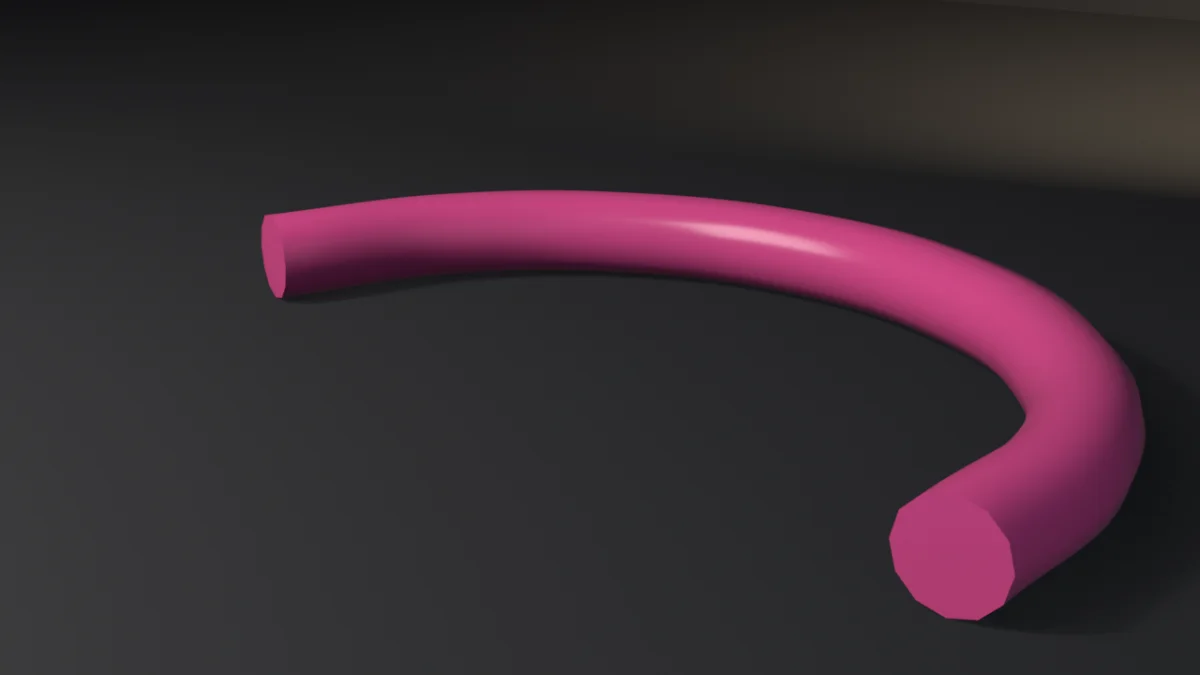
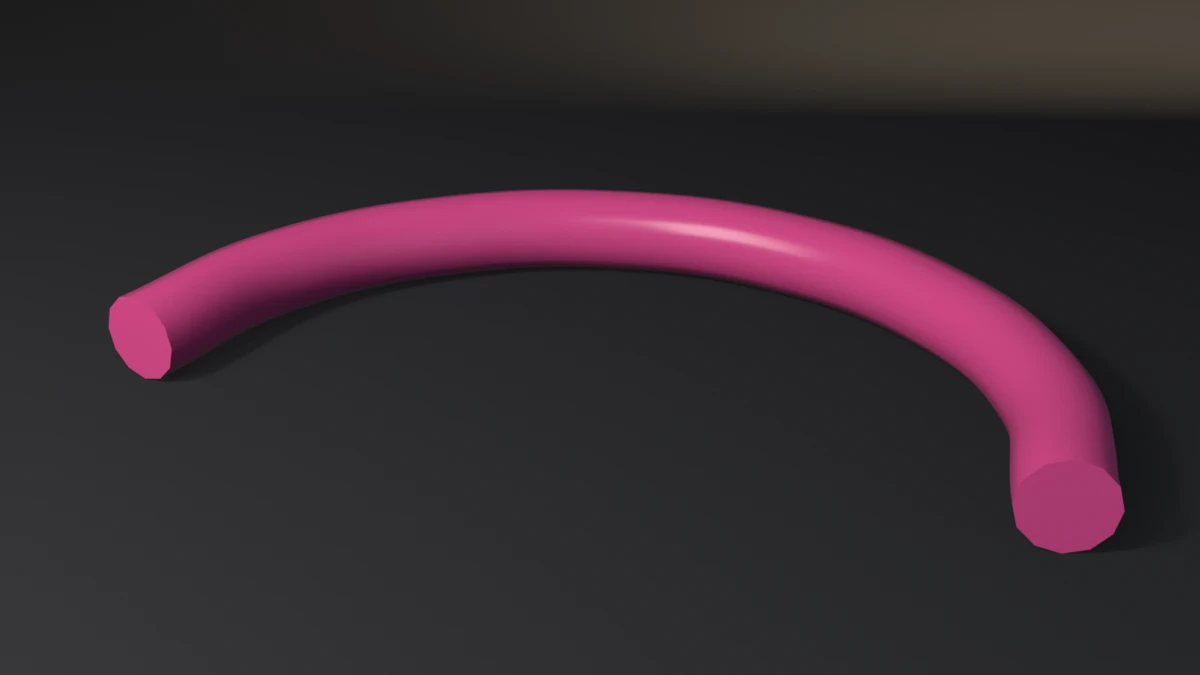
fix: curve-bevel-arc presentation, both caps facing the camera
Render path only: the camera looks along the direction both capped ends
face, so the witness (use_fill_caps) shows twice. Contract and exit codes
unchanged on 4.5.11, 5.1.2 and 5.2.1.

diff --git a/docs/gallery/curve-bevel-arc/index.html b/docs/gallery/curve-bevel-arc/index.html
@@ -16,13 +16,13 @@
   <meta property="og:image" content="https://tmhsdigital.github.io/Blender-Developer-Tools/gallery/assets/curve-bevel-arc-hero.webp" />
   <meta property="og:image:width" content="1280" />
   <meta property="og:image:height" content="720" />
-  <meta property="og:image:alt" content="A magenta beveled curve tube sweeping in an arc across a dark floor, with a capped end." />
+  <meta property="og:image:alt" content="A magenta beveled curve tube lying in a semicircle on a dark floor, both filled end caps facing the camera." />
   <meta property="og:site_name" content="Blender Developer Tools" />
   <meta name="twitter:card" content="summary_large_image" />
   <meta name="twitter:title" content="curve-bevel-arc — Examples — Blender Developer Tools" />
   <meta name="twitter:description" content="A beveled Bezier semicircle authored on bpy.types.Curve — splines.new(&#x27;BEZIER&#x27;), bezier_points, bevel_depth, use_fill_caps — so the curve renders as a solid tube without a prior mesh conversion." />
   <meta name="twitter:image" content="https://tmhsdigital.github.io/Blender-Developer-Tools/gallery/assets/curve-bevel-arc-hero.webp" />
-  <meta name="twitter:image:alt" content="A magenta beveled curve tube sweeping in an arc across a dark floor, with a capped end." />
+  <meta name="twitter:image:alt" content="A magenta beveled curve tube lying in a semicircle on a dark floor, both filled end caps facing the camera." />
   <style>
     /* fonts are deployed by the landing build (docs/fonts/) */
     @font-face { font-family: 'Barlow Condensed'; font-weight: 600; font-display: swap;
@@ -268,8 +268,8 @@
     <p>A beveled Bezier semicircle authored on bpy.types.Curve — splines.new(&#x27;BEZIER&#x27;), bezier_points, bevel_depth, use_fill_caps — so the curve renders as a solid tube without a prior mesh conversion.</p>
   </header>
   <main id="main">
-    <button class="detail-hero" id="heroZoom" type="button" aria-label="View full size: A magenta beveled curve tube sweeping in an arc across a dark floor, with a capped end.">
-      <img src="../assets/curve-bevel-arc-hero.webp" alt="A magenta beveled curve tube sweeping in an arc across a dark floor, with a capped end." width="1280" height="720" />
+    <button class="detail-hero" id="heroZoom" type="button" aria-label="View full size: A magenta beveled curve tube lying in a semicircle on a dark floor, both filled end caps facing the camera.">
+      <img src="../assets/curve-bevel-arc-hero.webp" alt="A magenta beveled curve tube lying in a semicircle on a dark floor, both filled end caps facing the camera." width="1280" height="720" />
     </button>
     <p class="zoom-hint">Rendered headless by the example itself — click to zoom.</p>
     <div class="callout"><span class="tag">witnesses</span> Curve tubes are curve datablocks: eight Bezier points, bevel_depth == 0.15, filled caps, and the evaluated mesh has deterministic topology (1044 verts, 1028 faces) resting on the floor.</div>
@@ -280,6 +280,7 @@
     <section class="detail-section md">
 <p>A runnable example that builds a beveled Bezier semicircle entirely through the curve data API — <code>splines.new(&#x27;BEZIER&#x27;)</code>, per-point <code>bezier_points</code>, <code>bevel_depth</code>, and <code>use_fill_caps</code> — so the curve renders as a solid tube without a prior mesh conversion.</p>
 <p><strong>What it witnesses:</strong> renderable curve tubes are curve datablocks, not meshes. The check asserts eight Bezier points, <code>bevel_depth == 0.15</code>, <code>use_fill_caps</code>, and that the depsgraph-evaluated mesh has the deterministic topology (1044 verts, 1028 faces for these resolution settings) with a Z span that rests on the floor (<code>[0, 2 × bevel]</code>) and an X span of <code>2 × radius + 2 × bevel</code>.</p>
+<p>Staging: both ends of the semicircle face −Y, so the still looks from −Y and shows both filled caps (<code>use_fill_caps</code>, the witness) face-on, with the arc sweeping behind them. The old angle showed one cap and the other end edge-on. The cap&#x27;s 12-sided outline is the pinned tessellation (<code>bevel_resolution</code> 4, locked by the 1044-vertex gate), not a presentation choice.</p>
 <h2>Run</h2>
 <pre><code># Cheap correctness check (no render) — the CI check:
 blender --background --python curve_bevel_arc.py --
@@ -434,7 +435,9 @@ EXPECT_FACES = <span class="n">1028</span>
     bsdf.inputs[<span class="s">&quot;Base Color&quot;</span>].default_value = (<span class="n">0.95</span>, <span class="n">0.10</span>, <span class="n">0.38</span>, <span class="n">1.0</span>)  <span class="c"># rose</span>
     bsdf.inputs[<span class="s">&quot;Roughness&quot;</span>].default_value = <span class="n">0.24</span>
     obj.data.materials.append(mat)
-    obj.rotation_euler = (<span class="n">0.0</span>, <span class="n">0.0</span>, math.radians(-<span class="n">18</span>))
+    <span class="c"># both capped ends face -Y with the arc unrotated, so the camera on -Y</span>
+    <span class="c"># sees the two caps (the witness) face-on and the arc sweeping behind</span>
+    obj.rotation_euler = (<span class="n">0.0</span>, <span class="n">0.0</span>, math.radians(-<span class="n">8</span>))
 
     floor_me = bpy.data.meshes.new(<span class="s">&quot;Floor&quot;</span>)
     bm = bmesh.new()
@@ -462,7 +465,7 @@ EXPECT_FACES = <span class="n">1028</span>
     scene.world = world
 
     aim = bpy.data.objects.new(<span class="s">&quot;Aim&quot;</span>, <span class="k">None</span>)
-    aim.location = (<span class="n">0.0</span>, <span class="n">0.35</span>, BEVEL)
+    aim.location = (<span class="n">0.0</span>, <span class="n">0.55</span>, BEVEL)
     scene.collection.objects.link(aim)
 
     <span class="k">def</span> light(name, loc, energy, size, col):
@@ -494,7 +497,7 @@ EXPECT_FACES = <span class="n">1028</span>
     cam_data = bpy.data.cameras.new(<span class="s">&quot;Cam&quot;</span>)
     cam_data.lens = <span class="n">50.0</span>
     cam = bpy.data.objects.new(<span class="s">&quot;Cam&quot;</span>, cam_data)
-    cam.location = (<span class="n">2.55</span>, -<span class="n">3.62</span>, <span class="n">1.78</span>)
+    cam.location = (<span class="n">1.1</span>, -<span class="n">4.3</span>, <span class="n">2.55</span>)
     scene.collection.objects.link(cam)
     scene.camera = cam
     track = cam.constraints.new(<span class="s">&#x27;TRACK_TO&#x27;</span>)
@@ -569,7 +572,7 @@ EXPECT_FACES = <span class="n">1028</span>
   </main>
   <dialog class="lightbox" id="lightbox" aria-label="Full-size render">
     <button class="lightbox-close" type="button" autofocus>Close</button>
-    <img src="../assets/curve-bevel-arc-hero.webp" alt="A magenta beveled curve tube sweeping in an arc across a dark floor, with a capped end." />
+    <img src="../assets/curve-bevel-arc-hero.webp" alt="A magenta beveled curve tube lying in a semicircle on a dark floor, both filled end caps facing the camera." />
   </dialog>
   <footer>
     <div class="statusbar">

diff --git a/examples/curve-bevel-arc/curve_bevel_arc.py b/examples/curve-bevel-arc/curve_bevel_arc.py
@@ -131,7 +131,9 @@ def render_still(obj, path, engine):
     bsdf.inputs["Base Color"].default_value = (0.95, 0.10, 0.38, 1.0)  # rose
     bsdf.inputs["Roughness"].default_value = 0.24
     obj.data.materials.append(mat)
-    obj.rotation_euler = (0.0, 0.0, math.radians(-18))
+    # both capped ends face -Y with the arc unrotated, so the camera on -Y
+    # sees the two caps (the witness) face-on and the arc sweeping behind
+    obj.rotation_euler = (0.0, 0.0, math.radians(-8))
 
     floor_me = bpy.data.meshes.new("Floor")
     bm = bmesh.new()
@@ -159,7 +161,7 @@ def render_still(obj, path, engine):
     scene.world = world
 
     aim = bpy.data.objects.new("Aim", None)
-    aim.location = (0.0, 0.35, BEVEL)
+    aim.location = (0.0, 0.55, BEVEL)
     scene.collection.objects.link(aim)
 
     def light(name, loc, energy, size, col):
@@ -191,7 +193,7 @@ def render_still(obj, path, engine):
     cam_data = bpy.data.cameras.new("Cam")
     cam_data.lens = 50.0
     cam = bpy.data.objects.new("Cam", cam_data)
-    cam.location = (2.55, -3.62, 1.78)
+    cam.location = (1.1, -4.3, 2.55)
     scene.collection.objects.link(cam)
     scene.camera = cam
     track = cam.constraints.new('TRACK_TO')

diff --git a/examples/curve-bevel-arc/README.md b/examples/curve-bevel-arc/README.md
@@ -11,6 +11,12 @@ and that the depsgraph-evaluated mesh has the deterministic topology (1044 verts
 1028 faces for these resolution settings) with a Z span that rests on the floor
 (`[0, 2 × bevel]`) and an X span of `2 × radius + 2 × bevel`.
 
+Staging: both ends of the semicircle face −Y, so the still looks from −Y and
+shows both filled caps (`use_fill_caps`, the witness) face-on, with the arc
+sweeping behind them. The old angle showed one cap and the other end edge-on.
+The cap's 12-sided outline is the pinned tessellation (`bevel_resolution` 4,
+locked by the 1044-vertex gate), not a presentation choice.
+
 ## Run
 
 ```bash

diff --git a/README.md b/README.md
@@ -389,7 +389,7 @@ A relative Tall shape key that lifts and flares the top face — authored throug
 </tr>
 <tr>
 <td width="46%" valign="middle">
-<a href="examples/curve-bevel-arc/"><img src="examples/curve-bevel-arc/preview.webp" alt="Curve bevel arc: a rose beveled Bezier semicircle tube resting on a dark studio floor" /></a>
+<a href="examples/curve-bevel-arc/"><img src="examples/curve-bevel-arc/preview.webp" alt="Curve bevel arc: a rose beveled Bezier semicircle tube resting on a dark studio floor, both filled end caps facing the camera" /></a>
 </td>
 <td valign="middle">
 
